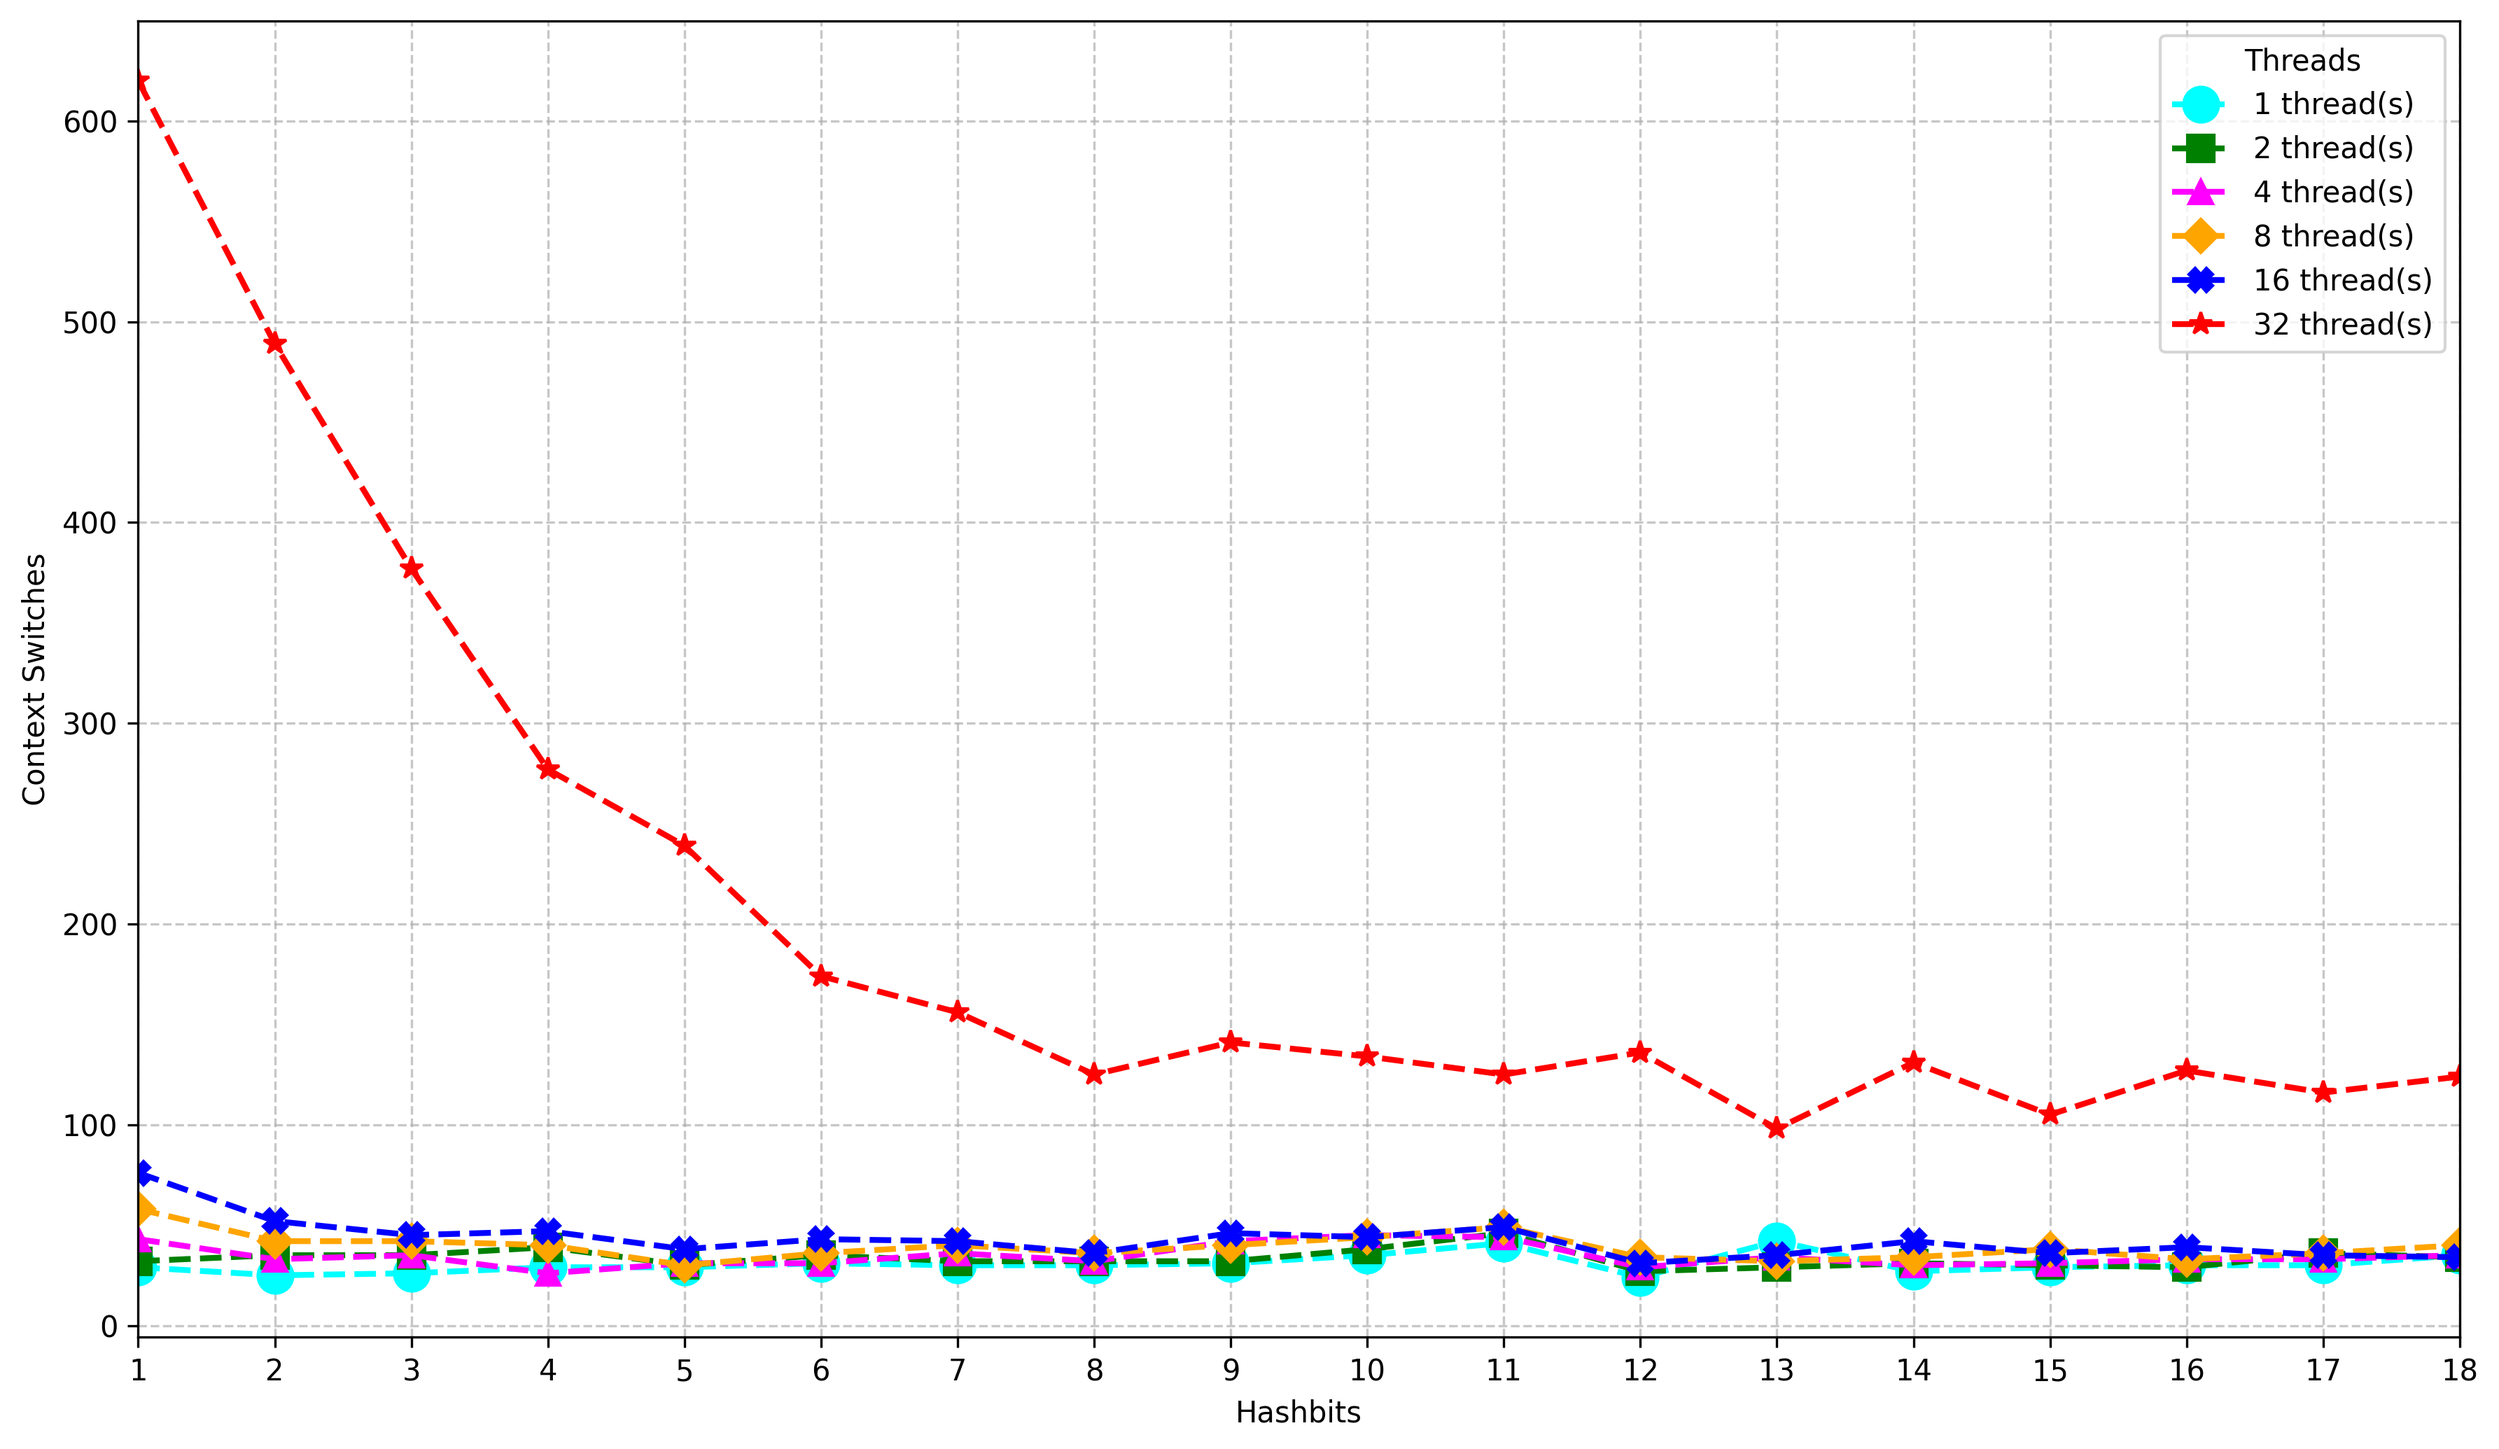
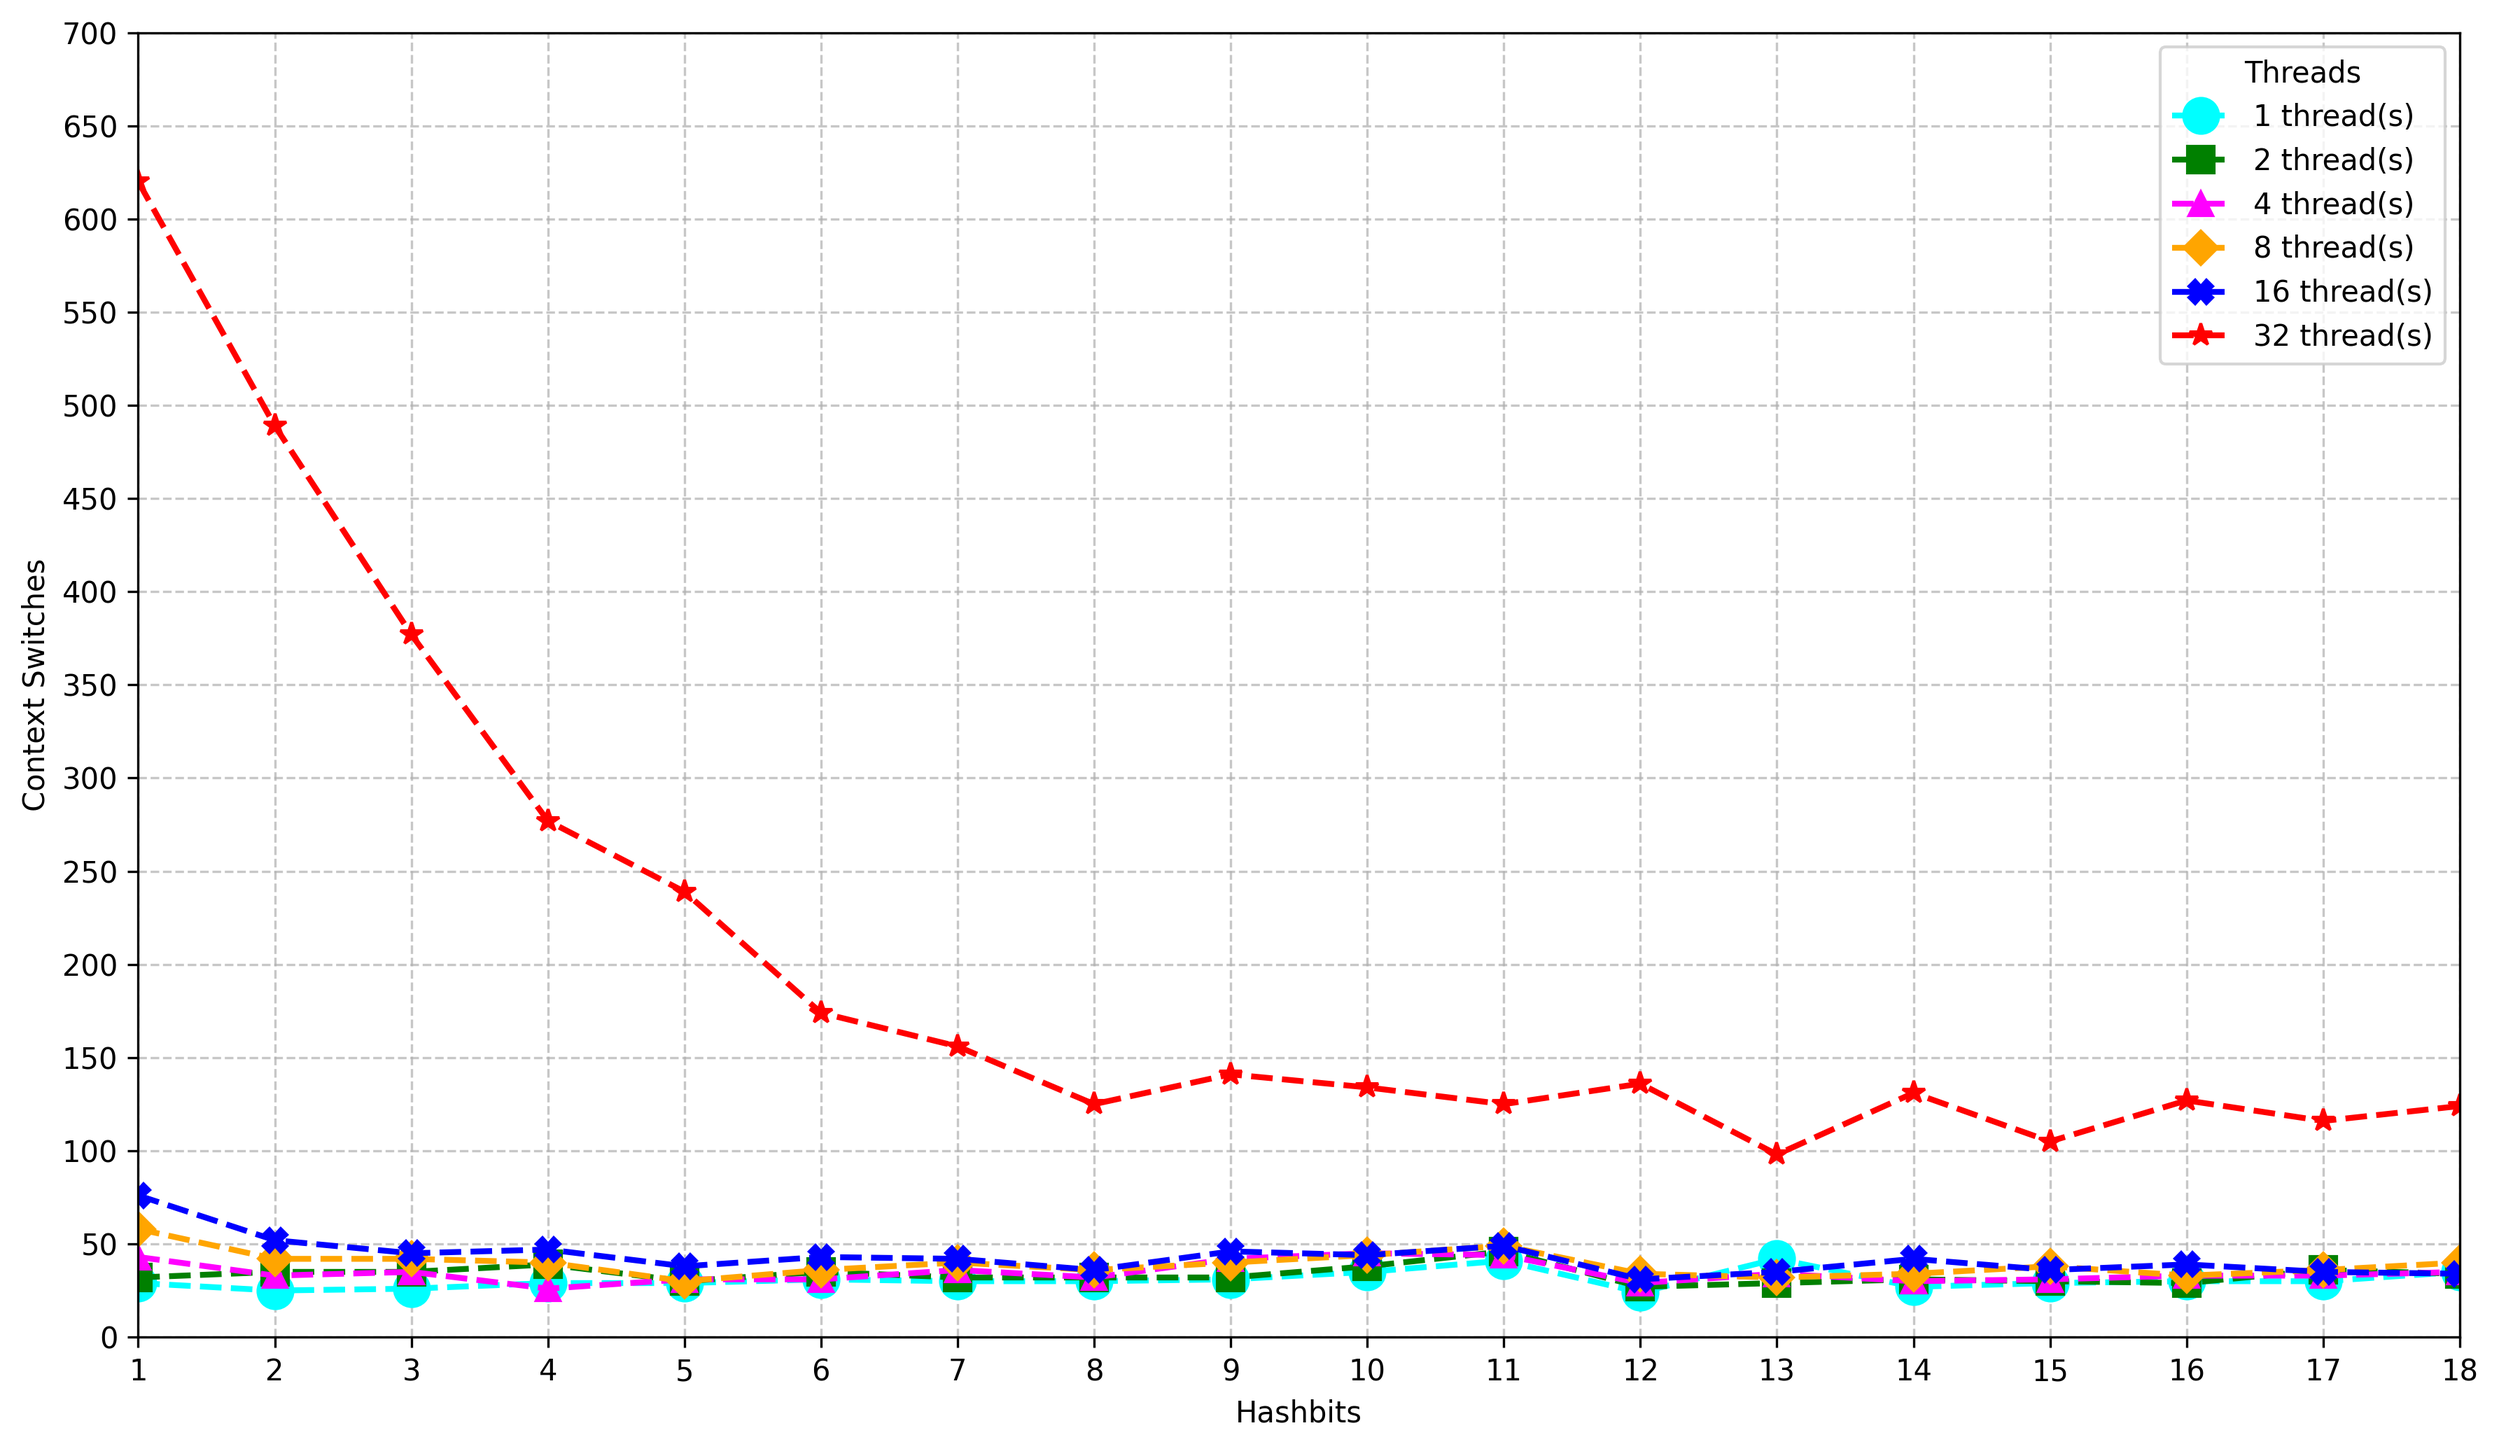
context switch graphs in ass1 are now normalized/standardized between programs

diff --git a/Assignment1/data_analysis_tools/csv_and_plot.py b/Assignment1/data_analysis_tools/csv_and_plot.py
@@ -17,7 +17,8 @@ project_dir = os.path.dirname(current_dir)
 
 #change or add folders here you'd like plots to be written to.
 csv_results_folder = os.path.join(project_dir, 'csv')
-plots_results_folder = os.path.join(project_dir, 'plots/18_04_graphs_symbols_no_title')
+plots_results_folder = os.path.join(project_dir, 'plots/graphs_symbols_no_title') #graphs_with_symbols_no_title
+os.makedirs(plots_results_folder, exist_ok=True)
 
 #define mapping of thread counts to colors (used in both plots)
 thread_colors = {
@@ -152,11 +153,11 @@ def plot_hashbits_versus_perf_vals(merged_df, date, programName):
 
     #list of metrics to plot and corresponding labels
     metrics = [
-        ('cpu-cycles per Tuple', 'CPU Cycles per Tuple'),
-        ('cache-misses per Tuple', 'Cache Misses per Tuple'),
-        ('page-faults per Tuple', 'Page Faults per Tuple'),
-        ('cpu-migrations', 'CPU Migrations'),
-        ('dTLB-load-misses per Tuple', 'dTLB Load Misses per Tuple'),
+        #('cpu-cycles per Tuple', 'CPU Cycles per Tuple'),
+        #('cache-misses per Tuple', 'Cache Misses per Tuple'),
+        #('page-faults per Tuple', 'Page Faults per Tuple'),
+        #('cpu-migrations', 'CPU Migrations'),
+        #('dTLB-load-misses per Tuple', 'dTLB Load Misses per Tuple'),
         ('context-switches', 'Context Switches')
     ]
 
@@ -167,16 +168,16 @@ def plot_hashbits_versus_perf_vals(merged_df, date, programName):
             'cache-misses per Tuple': (7, 1),
             'page-faults per Tuple': (0.020, 0.002),
             'cpu-migrations': (35, 5),
-            'dTLB-load-misses per Tuple': (2.2, 0.2)
-            #'context-switches per Tuple': (0.001, 0.0001)
+            'dTLB-load-misses per Tuple': (2.2, 0.2),
+            'context-switches': (70000, 10000)
         },
         "conc": {
             'cpu-cycles per Tuple': (7500, 250),
             'cache-misses per Tuple': (7, 1),
             'page-faults per Tuple': (0.10, 0.02),
             'cpu-migrations': (35, 5),
-            'dTLB-load-misses per Tuple': (2.4, 0.2)
-            #'context-switches per Tuple': (0.0005, 0.0001)
+            'dTLB-load-misses per Tuple': (2.4, 0.2),
+            'context-switches': (700, 50)
         }
     }
 
@@ -218,7 +219,10 @@ def plot_hashbits_versus_perf_vals(merged_df, date, programName):
         if y_config and col in y_config:
             max_y, tick_interval = y_config[col]
             rounded_min_y = round_down(min_y_value, tick_interval)
-            ax.set_ylim(bottom=min_y_value, top=max_y)
+            if "indep" in programName and ylabel =='Context Switches':
+                ax.set_ylim(bottom=-5000, top=max_y)
+            else:
+                ax.set_ylim(bottom=min_y_value, top=max_y)
             ax.set_yticks(np.arange(rounded_min_y, max_y + tick_interval, tick_interval))
             
         plt.tight_layout()
